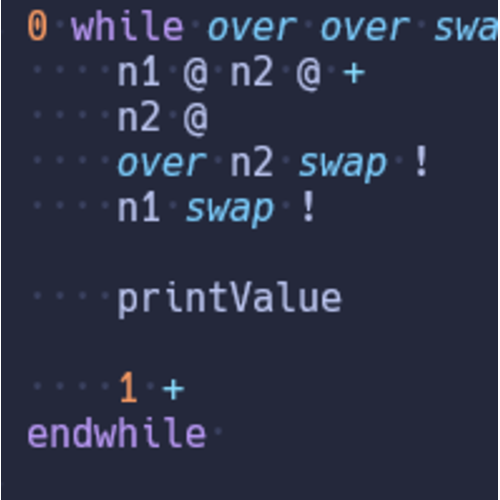
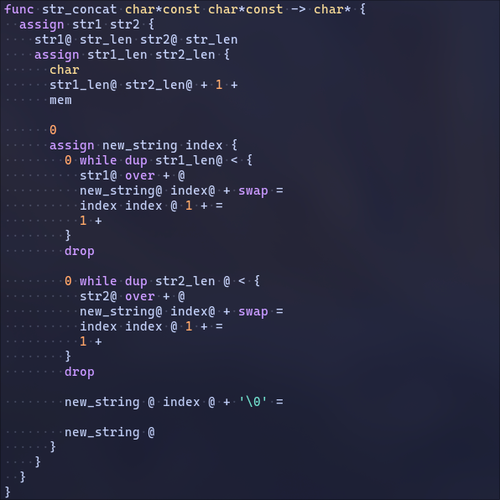
feat: final changes

diff --git a/src/generate.js b/src/generate.js
@@ -12,16 +12,32 @@ function generateHTML(project) {
   let name = project["name"];
   let link = project["link"];
   let img_path = project["img"];
+  let date_str = project["date"];
   let desc = project["description"];
+
+  if (date_str == undefined) {
+    date_str = ""
+  }
 
   let projects_list = document.querySelector("#projects_grid");
 
   let div = document.createElement("div");
   div.className = `project`;
 
-  let title_div = document.createElement("h2");
-  title_div.className = "project_title";
-  title_div.innerHTML = name;
+  let title_div = document.createElement("div");
+  title_div.className = "project_title_div"
+
+  let title = document.createElement("h2");
+  title.className = "project_title";
+  title.innerHTML = name;
+
+  let date = document.createElement("h4");
+  date.className = "project_date";
+  date.innerHTML = date_str;
+
+  title_div.append(title)
+  title_div.append(date)
+
   div.appendChild(title_div);
 
   let bar = document.createElement("div");
@@ -43,9 +59,15 @@ function generateHTML(project) {
 
   content_div.appendChild(img);
 
-  let about_div = document.createElement("p");
+  let about_div = document.createElement("div");
   about_div.className = "project_about";
-  about_div.innerHTML = desc;
+
+  for (let i = 0; i < desc.length; i++) {
+    let para = document.createElement("p");
+    para.innerHTML = desc[i];
+    about_div.appendChild(para);
+  }
+
   content_div.appendChild(about_div);
 
   div.appendChild(content_div);

diff --git a/index.html b/index.html
@@ -12,14 +12,30 @@
   <body>
     <div id=main_body>
       <div id=links>
-        <a href="https://github.com/Rylthos">Github</a>
+        <a href="https://github.com/Rylthos" target="_blank">Github</a>
       </div>
 
       <div id=content>
         <div class=section id=about>
           <h1 class=title>ABOUT ME</h1>
           <div>
-            Lorem Ipsum
+            <p>
+              I'm a computer science graduate from the University of Cambridge, currently
+              working as a graduate software engineer on the GPU team at ARM.
+            </p>
+
+            <p>
+              I am interested in working with graphics and low level programming, along
+              with just about everything else.
+            </p>
+
+            <p>
+              I have developed multiple projects with Vulkan, including a Voxel
+              raymarcher for my dissertation project. I have also designed,
+              and had manufactured, multiple PCBs for CUSF (Cambridge University Spaceflight)
+              and for myself, along with writing the code for them with C, including
+              writing the interfaces for the sensors.
+            </p>
           </div>
         </div>
 

diff --git a/styles/projects.css b/styles/projects.css
@@ -14,11 +14,37 @@
 
   padding: 8px;
 }
-.project_title {
+
+.project_title_div {
   padding: 8px;
   margin: 0px;
 
+  width: 100%;
+
   font-size: 30px;
+
+  display: flex;
+
+  flex-direction: row;
+
+  justify-content: space-between;
+  align-items: center;
+}
+
+.project_title {
+  position: relative;
+  left: 0;
+
+  margin: 15px;
+}
+
+.project_date {
+  position: relative;
+  right: 0;
+
+  opacity: 80%;
+
+  margin: 15px;
 }
 
 .project_content {
@@ -30,6 +56,8 @@
 
 .project_image {
   margin: 8px;
+
+  border-radius: 4px;
 }
 
 .project_bar {
@@ -52,4 +80,26 @@
   border-radius: 8px;
 
   font-size: 25px;
+
+  margin-top: 8px;
+}
+
+@media only screen and (max-device-width: 600px) {
+  .project_content {
+    flex-direction: column;
+    justify-content: center;
+  }
+
+  .project_content a {
+    display: flex;
+    justify-content: center;
+  }
+
+  .project_content a > img {
+    align-items: center;
+  }
+
+  .project_title_div {
+    flex-direction: column;
+  }
 }

diff --git a/styles/main.css b/styles/main.css
@@ -8,6 +8,8 @@ body {
 
   color: var(--base05);
   background-color: var(--base00);
+
+  font-size: 20px;
 }
 
 #main_body {
@@ -33,7 +35,9 @@ body {
   background-color: var(--base01);
 
   width: 100%;
-  height: 6vh;
+  height: 56px;
+
+  z-index: 10;
 }
 
 #links a {
@@ -42,7 +46,7 @@ body {
   display: block;
 
   color: var(--base05);
-  font-size: 20px;
+  font-size: 40px;
 }
 
 #links a:hover {
@@ -50,9 +54,13 @@ body {
 }
 
 #content {
-  margin-top: 4vh;
+  margin-top: 5vh;
 
   width: 100%;
+}
+
+#about div {
+  padding: 8px;
 }
 
 .section {
